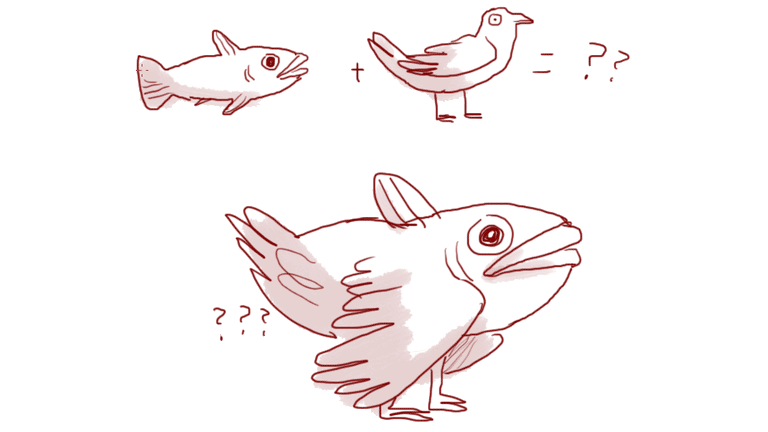
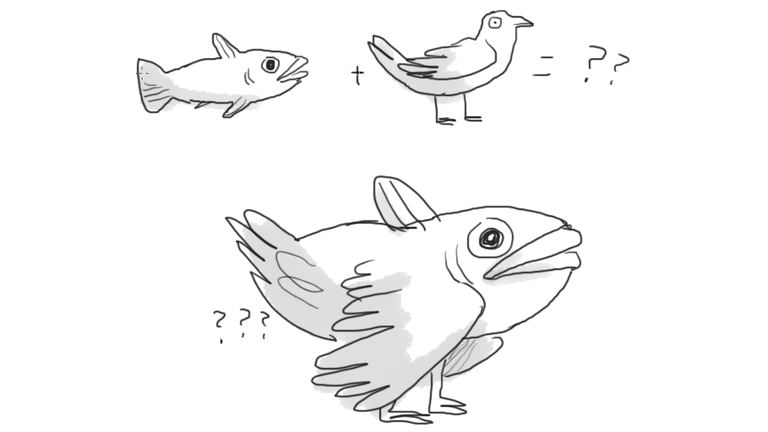
Improve images for dark mode

diff --git a/_posts/2021-03-26-apple-does-not-care-about-album-cover-art.md b/_posts/2021-03-26-apple-does-not-care-about-album-cover-art.md
@@ -4,7 +4,7 @@ title:    "Apple doesn't care about Album Cover Art"
 subtitle: "Album covers have never been smaller."
 date:     2021-03-26 12:14:00 +0000
 image:
-  path:   /assets/images/iphone-music-app-paused.png
+  path:   /assets/images/apple-vinyl.png
 tags: [Opinion]
 ---
 
